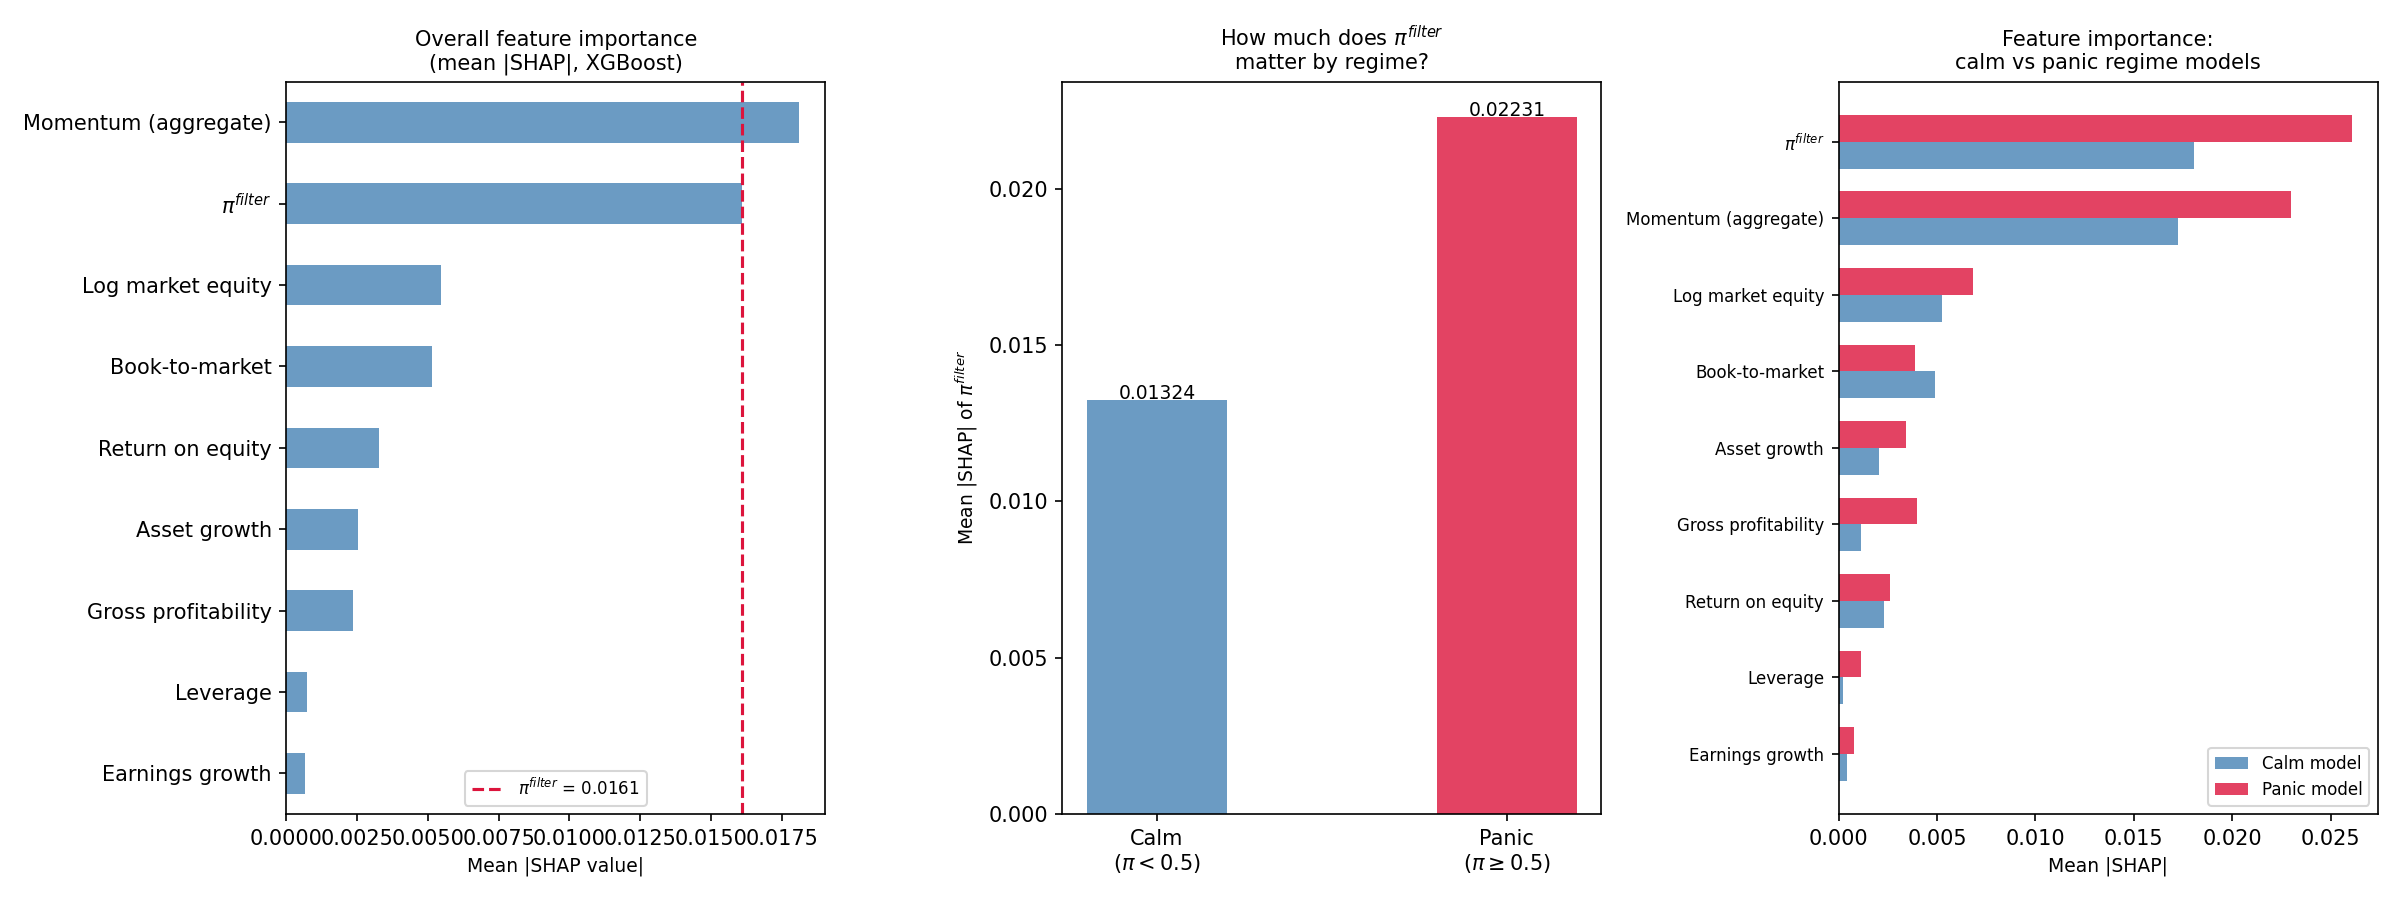
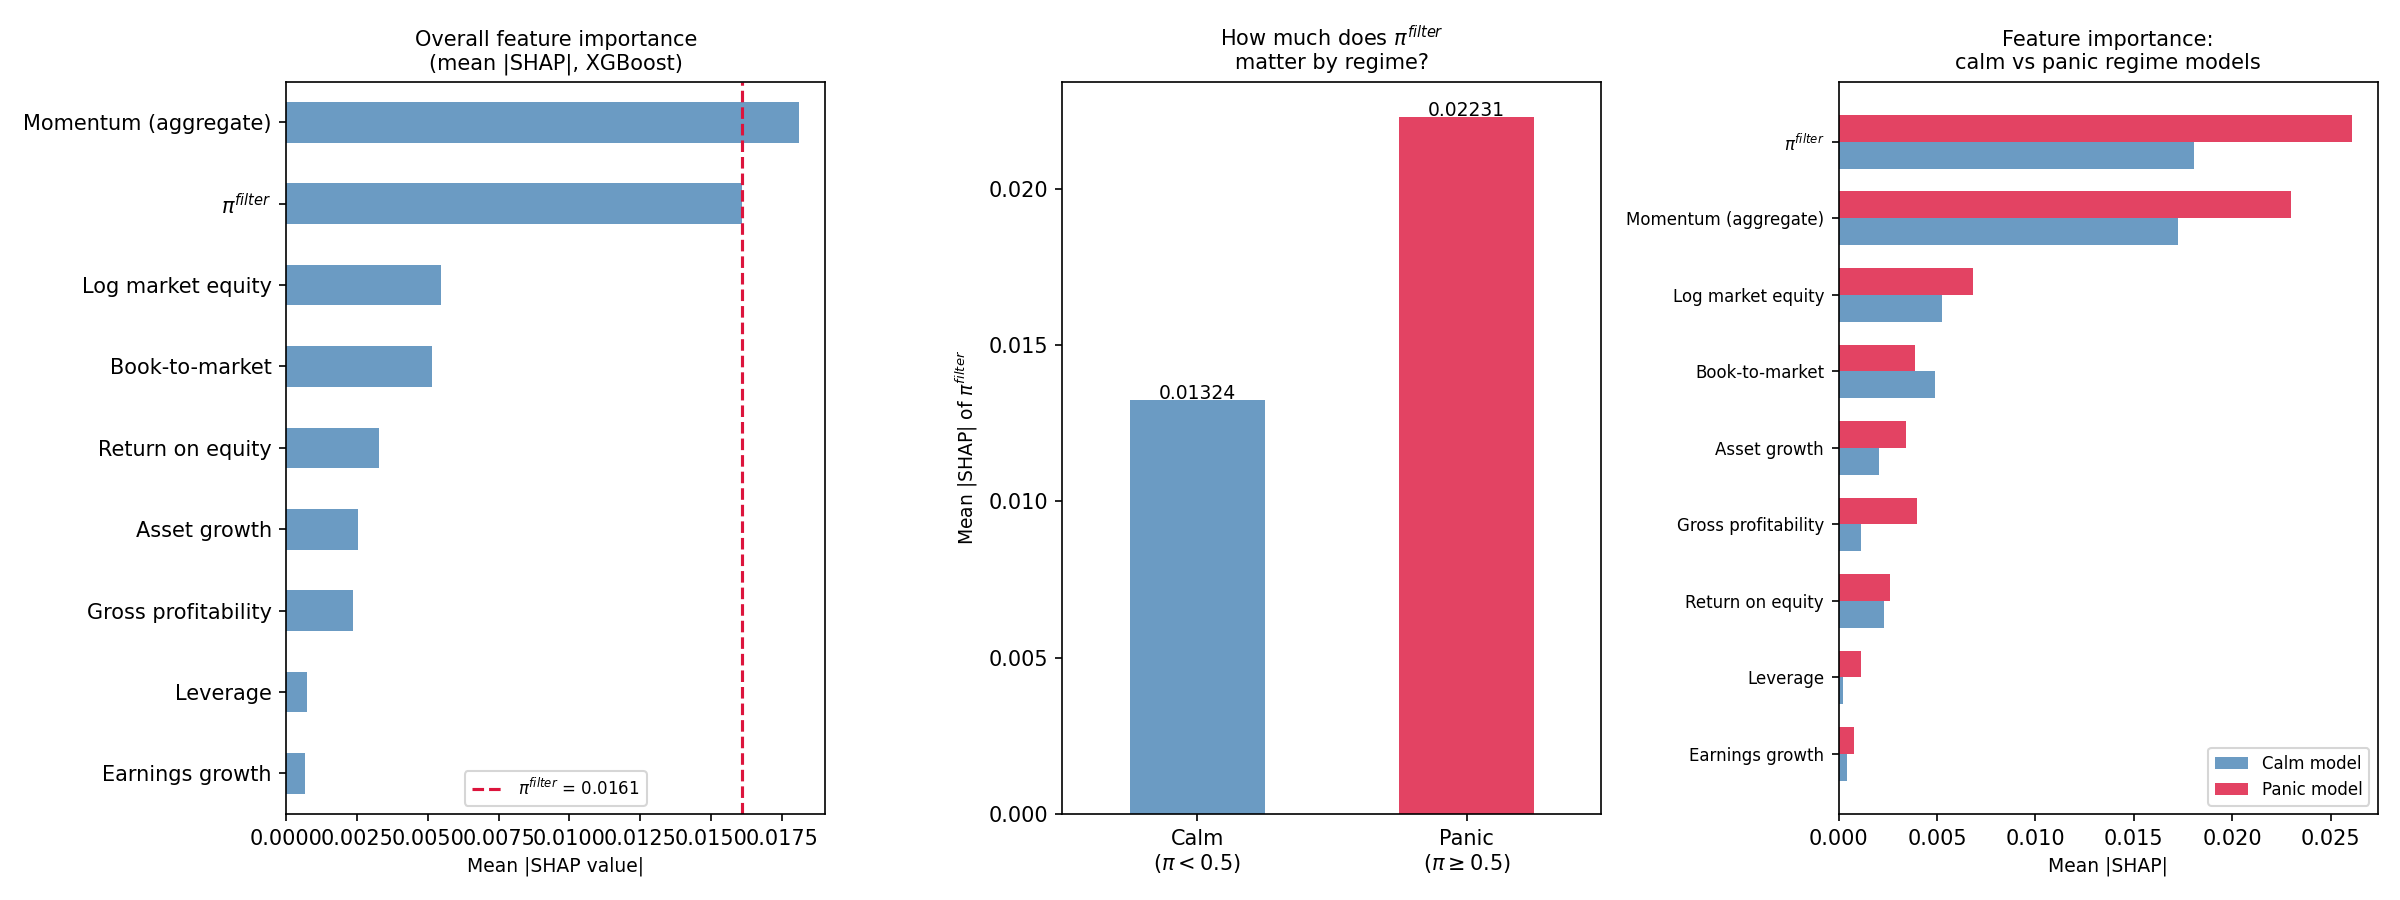
Force exact placement of all tables and figures with [H]
Changed all float specifiers from [htbp] to [H] across all .tex files
to eliminate white space gaps and ensure tables/figures appear exactly
where referenced in the text.

Changed region(s): [[0.5625, 0.0933, 0.6562, 0.9644], [0.4375, 0.4044, 0.5312, 0.9022], [0.4688, 0.9022, 0.5312, 0.9644]]

diff --git a/latex/main_results.tex b/latex/main_results.tex
@@ -67,7 +67,7 @@ Fundamental characteristics, not the regime signal, drive the risk-adjusted impr
 
 \subsubsection{Step 2: Feature-Level Evidence}
 
-To understand why fundamentals improve the Sharpe ratio and why the regime signal affects only the return profile, this step examines which features each model actually uses.
+To understand why the inclusion of momentum at multiple horizons and fundamental characteristics improves the Sharpe ratio, and why the regime signal affects only the return profile, this step examines which features each model actually uses.
 
 \paragraph{What the logistic regression relies on}
 
@@ -83,7 +83,7 @@ Table~\ref{tab:shap} and Figure~\ref{fig:shap_importance} report the mean absolu
 
 \input{tables/table_shap}
 
-\begin{figure}[htbp]
+\begin{figure}[H]
     \centering
     \includegraphics[width=\textwidth]{cs_feature_importance.png}
     \caption{Mean absolute SHAP values for the XGBoost model (M2), decomposed by calm and panic months. Momentum features (aggregated) dominate overall, but $\pi_t^{\text{filter}}$ is the second most important individual feature. Its importance increases from 0.015 in calm to 0.020 in panic, indicating that the model relies more heavily on the regime signal during stress.}
@@ -94,7 +94,7 @@ Table~\ref{tab:shap} and Figure~\ref{fig:shap_importance} report the mean absolu
 
 The divergence arises because $\pi_t^{\text{filter}}$ is not a direct return predictor -- it does not forecast whether stocks will go up or down. Rather, it functions as a \emph{context variable} that modulates which other features are informative. A linear model assigns $\pi_t^{\text{filter}}$ a single coefficient that must hold across all market conditions, which is near zero precisely because the signal has no unconditional predictive power. XGBoost, through its tree-based splits, conditions on $\pi_t^{\text{filter}}$ and then branches on different momentum horizons within each regime, without requiring explicit interaction terms. The partial dependence plot (Figure~\ref{fig:pdp_pi}) confirms this: the nonlinear, non-monotonic shape shows that $\pi_t^{\text{filter}}$'s effect on predicted returns depends on the values of other features, which is why it is invisible to the linear model but central to the tree-based one.
 
-\begin{figure}[htbp]
+\begin{figure}[H]
     \centering
     \includegraphics[width=0.85\textwidth]{cs_pdp_pi_filter.png}
     \caption{Partial dependence plot of the XGBoost predicted return on $\pi_t^{\text{filter}}$. The nonlinear, non-monotonic shape confirms that $\pi_t^{\text{filter}}$ functions as a context variable rather than a linear predictor: its effect on predicted returns depends on the values of other features (particularly momentum horizons), which is why the logistic regression coefficient is near zero while XGBoost treats it as a top feature.}
@@ -141,7 +141,7 @@ The preceding analysis established that the regime signal enables higher absolut
 \end{equation}
 where $\sigma_s^2$ is the trailing 12-month realised variance of stock $s$'s monthly returns and $\gamma \in \{0, 1, 2, \dots, 10\}$ is the risk-aversion parameter. At $\gamma = 0$ this recovers the baseline M2 model (pure return maximisation); as $\gamma$ increases, the model learns to favour lower-volatility stocks. All other features, hyperparameters, and portfolio construction rules are held fixed.
 
-\begin{figure}[htbp]
+\begin{figure}[H]
     \centering
     \includegraphics[width=\textwidth]{risk_aversion_analysis.png}
     \caption{Effect of risk aversion on XGBoost portfolio performance and feature importance. \textbf{Top row}: out-of-sample Sharpe ratio, annualised return, and annualised volatility as a function of $\gamma$. \textbf{Bottom row}: relative SHAP feature importance (normalised to 100\%) across $\gamma$ values. The regime signal $\pi_t^{\text{filter}}$ accounts for nearly 30\% of total importance at $\gamma = 0$ but falls to approximately 6\% at $\gamma = 10$, while momentum's share rises correspondingly.}

diff --git a/latex/data_section.tex b/latex/data_section.tex
@@ -6,7 +6,7 @@
 
 The data sources, sample construction, and feature definitions used throughout the thesis are described below. All data are at the monthly frequency. The stock-level sample spans January 1990 to November 2025, while the HMM regime model uses data from January 1990 onward (determined by the availability of stock-level data for computing cross-sectional return dispersion and relative market participation). The sample is split into a training period (pre-2011) used to estimate the HMM and cross-sectional models, and an out-of-sample test period (2011--2025) used exclusively for performance evaluation. Table~\ref{tab:sample_summary} provides an overview of the sample.
 
-\begin{table}[htbp]
+\begin{table}[H]
 \centering
 \begin{tabular}{l r r r}
 \toprule
@@ -75,7 +75,7 @@ The four features are:
     where $N_t$ is the number of stocks with valid return observations in month~$t$. REL\_N is close to zero in normal times but turns negative during crises when stocks delist, halt trading, or are acquired at elevated rates. For example, during the 2008 financial crisis, a wave of delistings and trading halts caused $N_t$ to drop sharply relative to its trailing average. This captures structural market damage that the other three features do not measure.
 \end{enumerate}
 
-\begin{figure}[htbp]
+\begin{figure}[H]
     \centering
     \includegraphics[width=\textwidth]{features_hmm.png}
     \caption{Time series of the four HMM input features (DD, VOL, DISP, REL\_N), standardised using training-sample statistics. Shaded regions indicate NBER recession periods. All four features spike during the dot-com bust (2000--2002) and the global financial crisis (2007--2009), but with distinct dynamics reflecting their complementary stress dimensions.}
@@ -116,7 +116,7 @@ Testing 222 combinations and selecting the best raises the concern that the high
 \paragraph{Step 3: Seed stability}
 Because Gibbs sampling is stochastic, a robust feature combination should produce consistent results regardless of the random seed. The top eight combinations with full training data (available from 1990) are each run five times with different random seeds. DD+VOL+DISP+REL\_N achieves the highest mean XGBoost Sharpe ratio (1.12) with low standard deviation (0.06) across seeds, and its minimum Sharpe ratio across all seeds (1.03) exceeds the baseline's mean (0.84). Table~\ref{tab:seed_stability} reports these results.
 
-\begin{table}[htbp]
+\begin{table}[H]
 \centering
 \begin{tabular}{l r r r r}
 \toprule

diff --git a/latex/methodology.tex b/latex/methodology.tex
@@ -240,7 +240,7 @@ P(s_t=\text{panic} \mid \mathbf{z}_{1:t};\,\bar{\boldsymbol{\mu}},\bar{\boldsymb
 This quantity represents the probability that the market is in the panic regime at month $t$, conditional on all observed features up to and including $t$. It is strictly causal (no future information is used) and is computed for both the training and test periods. A value near $0$ indicates high confidence in the calm regime, a value near $1$ indicates high confidence in panic, and intermediate values reflect genuine ambiguity between the two states. This filtered probability serves as the regime signal passed to the portfolio construction methods described in Section~\ref{sec:methods}.
 
 
-\begin{figure}[htbp]
+\begin{figure}[H]
     \centering
     \includegraphics[width=\textwidth]{regime_probabilities.png}
     \caption{Filtered regime probability $\pi_t^{\text{filter}}$ over the full sample (1990--2025). The dashed vertical line separates the training period (left) from the out-of-sample test period (right). Shaded regions indicate periods where $\pi_t^{\text{filter}} > 0.5$ (panic classification). The signal correctly identifies all major stress episodes, including the dot-com bust, the global financial crisis, the COVID-19 crash, and the 2022 bear market, while remaining near zero during calm expansions.}

diff --git a/latex/appendix.tex b/latex/appendix.tex
@@ -6,7 +6,7 @@
 
 Table~\ref{tab:data_summary} provides a comprehensive overview of all data variables used in this thesis, their sources, and their roles in the analysis.
 
-\begin{table}[htbp]
+\begin{table}[H]
 \centering
 \small
 \begin{tabular}{l l l l}
@@ -134,7 +134,7 @@ where $\tilde{x}_{t,j}^s$ is the standardised value of feature $j$. The absolute
 
 \section{Convergence Diagnostics}\label{app:convergence}
 
-\begin{figure}[htbp]
+\begin{figure}[H]
     \centering
     \includegraphics[width=\textwidth]{convergence_trace.png}
     \caption{Trace plots of the Gibbs sampler. Each panel shows the sampled regime means (calm in blue, panic in red) for one of the four HMM input features: drawdown (DD), realised volatility (VOL), return dispersion (DISP), and relative market participation (REL\_N). The bottom panel shows the persistence probabilities $P_{00}$ (calm) and $P_{11}$ (panic). The dashed line at iteration $500$ marks the end of burn-in.}

diff --git a/scripts/cross_sectional_model.py b/scripts/cross_sectional_model.py
@@ -612,7 +612,8 @@ ax.legend(fontsize=8)
 ax = axes[1]
 ax.bar(['Calm\n($\\pi < 0.5$)', 'Panic\n($\\pi \\geq 0.5$)'],
        [shap_pi_calm, shap_pi_panic],
-       color=['steelblue', 'crimson'], alpha=0.8, width=0.4)
+       color=['steelblue', 'crimson'], alpha=0.8, width=0.5)
+ax.set_xlim(-0.5, 1.5)
 ax.set_ylabel(f'Mean |SHAP| of {pi_display}', fontsize=9)
 ax.set_title(f'How much does {pi_display}\nmatter by regime?', fontsize=10)
 for i, v in enumerate([shap_pi_calm, shap_pi_panic]):

diff --git a/tables/table_performance.tex b/tables/table_performance.tex
@@ -1,4 +1,4 @@
-\begin{table}[htbp]
+\begin{table}[H]
 \centering
 \small
 \begin{tabular}{l r r r r r r r}

diff --git a/tables/table_hmm_separation.tex b/tables/table_hmm_separation.tex
@@ -1,4 +1,4 @@
-\begin{table}[htbp]
+\begin{table}[H]
 \centering
 \begin{tabular}{l r r r r c}
 \toprule

diff --git a/tables/table_lr_coef.tex b/tables/table_lr_coef.tex
@@ -1,4 +1,4 @@
-\begin{table}[htbp]
+\begin{table}[H]
 \centering
 \footnotesize
 \begin{tabular}{l r r}

diff --git a/tables/table_shap.tex b/tables/table_shap.tex
@@ -1,4 +1,4 @@
-\begin{table}[htbp]
+\begin{table}[H]
 \centering
 \begin{tabular}{c l r r r}
 \toprule

diff --git a/tables/table_hmm_feature_ablation.tex b/tables/table_hmm_feature_ablation.tex
@@ -1,4 +1,4 @@
-\begin{table}[htbp]
+\begin{table}[H]
 \centering
 \smallskip
 \begin{tabular}{lcccc}

diff --git a/tables/table_regime_sharpe.tex b/tables/table_regime_sharpe.tex
@@ -1,4 +1,4 @@
-\begin{table}[htbp]
+\begin{table}[H]
 \centering
 \begin{tabular}{l r r r}
 \toprule

diff --git a/tables/table_regime_signal_ablation.tex b/tables/table_regime_signal_ablation.tex
@@ -1,4 +1,4 @@
-\begin{table}[htbp]
+\begin{table}[H]
 \centering
 \smallskip
 \begin{tabular}{lcccc}
